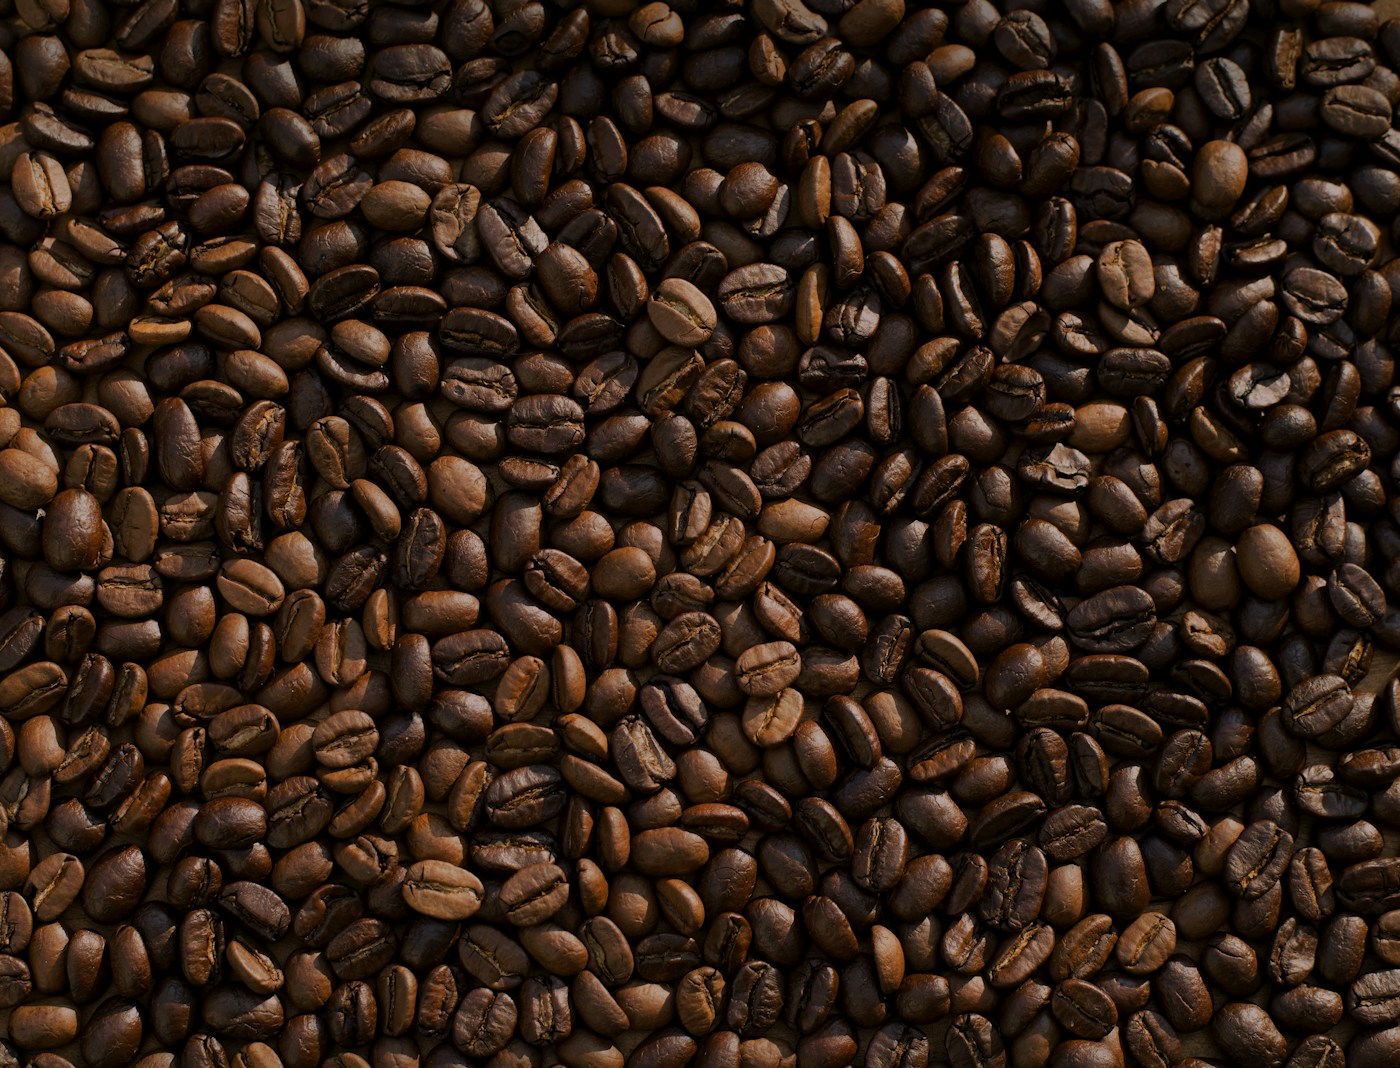
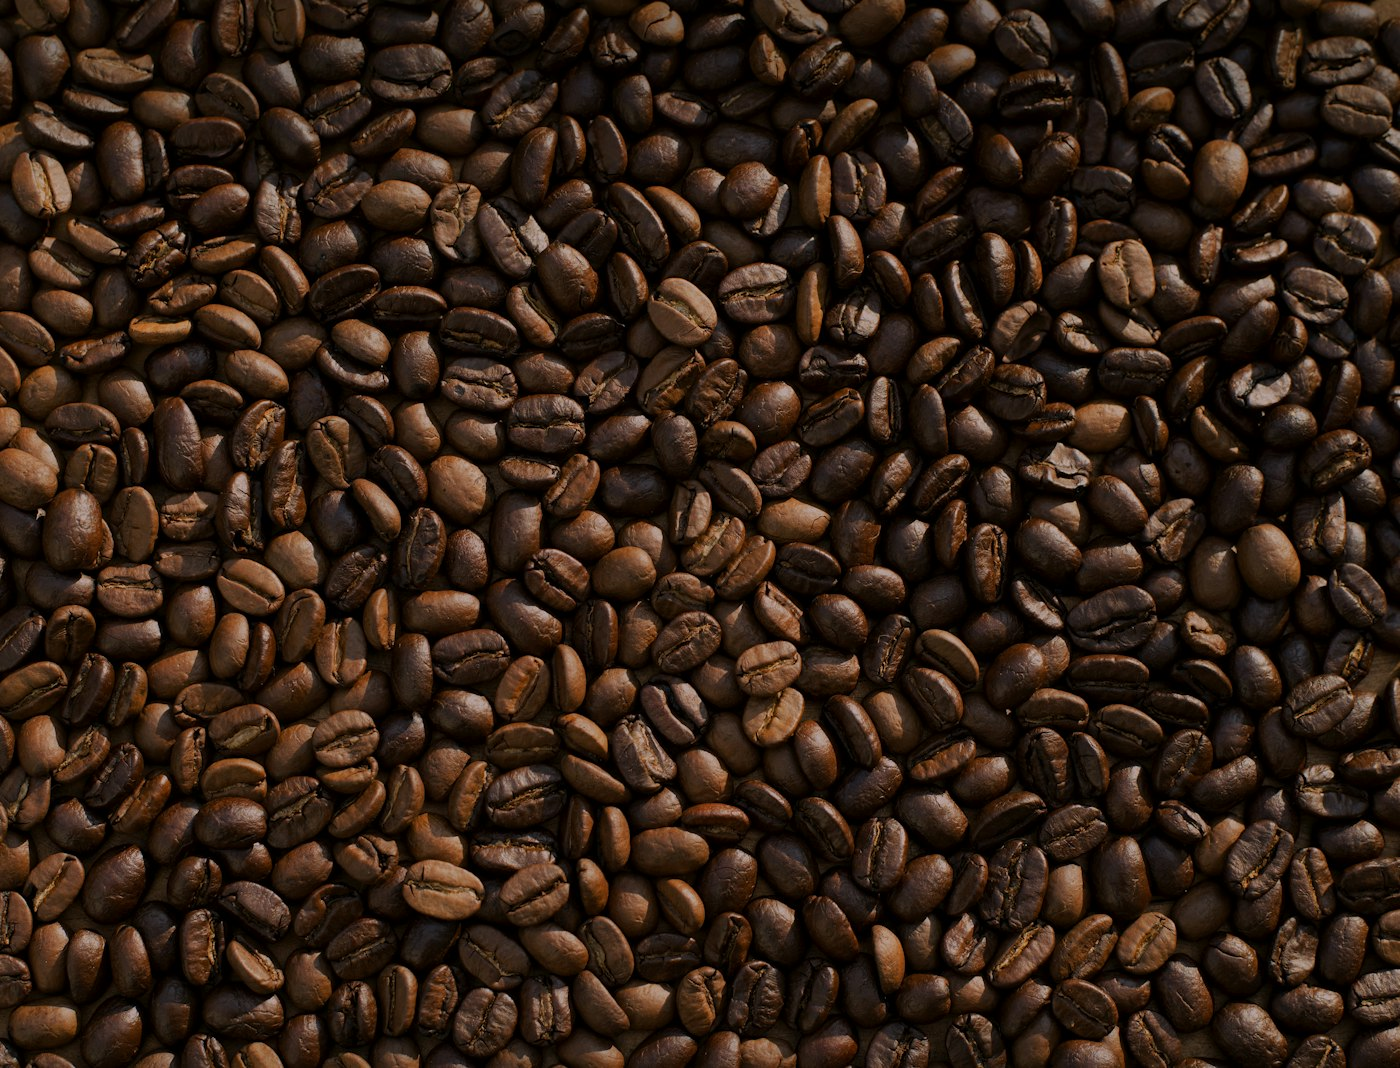
Photos des démos : licences Unsplash vérifiées et crédits
- Trois photos d'intérieur sans source prouvable remplacées par des photos Unsplash gratuites vérifiées
- Grains de café retéléchargés depuis leur page Unsplash
- CREDITS_PHOTOS.md : page, photographe et date de vérification de chaque photo

Changed region(s): [[0.7371, 0.4326, 0.7679, 0.4635]]

diff --git a/CREDITS_PHOTOS.md b/CREDITS_PHOTOS.md
@@ -1,0 +1,16 @@
+# Crédits des photos des démonstrations
+
+Toutes les photos des démos (Atelier Rive, Canopée, Sillage) proviennent d’Unsplash et sont publiées sous la [licence Unsplash](https://unsplash.com/fr/licence) : utilisation gratuite, y compris commerciale, sans attribution obligatoire. Elle interdit seulement de revendre les photos telles quelles ou de les regrouper pour créer un service concurrent.
+
+Chaque page ci-dessous a été vérifiée le 28 octobre 2026 : elle indique « Photo gratuite sur Unsplash » (pas Unsplash+) et renvoie vers la licence Unsplash. Les fichiers ont été téléchargés depuis ces pages, ou comparés à l’original pour ceux déjà présents.
+
+| Fichier (`public/images/…`) | Utilisé dans | Photographe | Page Unsplash |
+|---|---|---|---|
+| `atelier/interieur.*` | Atelier Rive (accueil, projet « Maison Lumière »), accueil Codenyr, démo Canopée | Spacejoy | https://unsplash.com/fr/photos/ensemble-de-salon-blanc-et-marron-9M66C_w_ToM |
+| `atelier/maison.*` | Atelier Rive (projet « La Parenthèse ») | Spacejoy | https://unsplash.com/fr/photos/salon-avec-canape-sectionnel-en-cuir-beige-umAXneH4GhA |
+| `atelier/matiere.*` | Atelier Rive (philosophie, projet « Épure »), démo Canopée | Denys Striyeshyn | https://unsplash.com/fr/photos/table-et-chaises-en-bois-marron-wJ7yGwz2-00 |
+| `canopee/jardin.*` | Canopée, accueil Codenyr | Neslihan Gunaydin | https://unsplash.com/fr/photos/pelle-de-jardin-en-metal-vert-remplie-de-terre-brune-BduDcrySLKM |
+| `sillage/coffee-moment.*` | Sillage, accueil Codenyr | Karl Fredrickson | https://unsplash.com/fr/photos/personne-remplissant-un-recipient-en-verre-TYIzeCiZ_60 |
+| `sillage/coffee-beans.*` | Sillage | Mike Kenneally | https://unsplash.com/fr/photos/lot-de-grains-de-cafe-TD4DBagg2wE |
+
+Pour toute nouvelle photo : ne prendre que des photos marquées « Photo gratuite » (jamais Unsplash+), sans personne reconnaissable ni marque visible, et l’ajouter à ce tableau.
